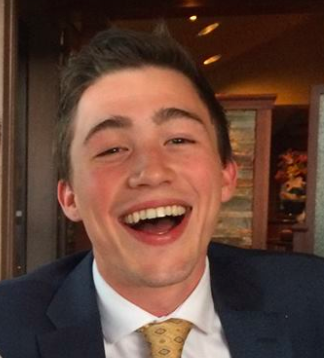
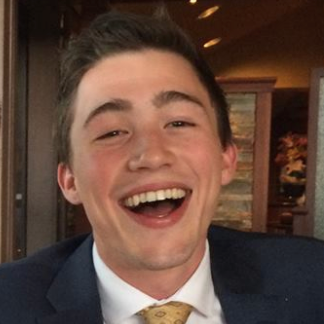
Changed landing page to About

diff --git a/src/components/About.vue b/src/components/About.vue
@@ -3,6 +3,7 @@
     <v-app>
       <div class="container">
         <div class="main-container">
+          <img src="../../static/avatar.png" alt="">
           <h1>about me</h1>
           <section>
             <p>My name is Nick Fallon, and I'm a full stack software developer.  I received a BA in Quantitative Economics with a minor in Math from CU Boulder in 2015. I worked in restaurants during high school and college. After college, I realized I didn't want to work in a financial discipline and started studying software development.</p>
@@ -75,5 +76,11 @@ export default {
   h3 {
     color: #006064;
     margin-bottom: .75em;
+  }
+  img {
+    margin-top: 3em;
+    width: 200px;
+    border: solid 4px #006064;
+    border-radius: 50%;
   }
 </style>

diff --git a/src/App.vue b/src/App.vue
@@ -56,8 +56,8 @@ export default {
       return {
         drawer: true,
         items: [
-          { title: 'Home', icon: 'fa-home', route: '/#/' },
-          { title: 'About', icon: 'fa-question', route: '/#/about' },
+          // { title: 'Home', icon: 'fa-home', route: '/#/' },
+          { title: 'About', icon: 'fa-question', route: '/#/' },
           { title: 'Projects', icon: 'fa-flask' , route: '/#/projects'},
           { title: 'Contact Me', icon: 'fa-comment-o', route: '/#/contact' },
           { title: 'Resume', icon: 'fa-file-text-o', route: '../static/NicholasFallon-Resume.pdf'}

diff --git a/src/router/index.js b/src/router/index.js
@@ -9,13 +9,13 @@ Vue.use(Router)
 
 export default new Router({
   routes: [
+    // {
+    //   path: '/',
+    //   name: 'Main',
+    //   component: Main
+    // },
     {
       path: '/',
-      name: 'Main',
-      component: Main
-    },
-    {
-      path: '/about',
       name: 'About',
       component: About
     },
